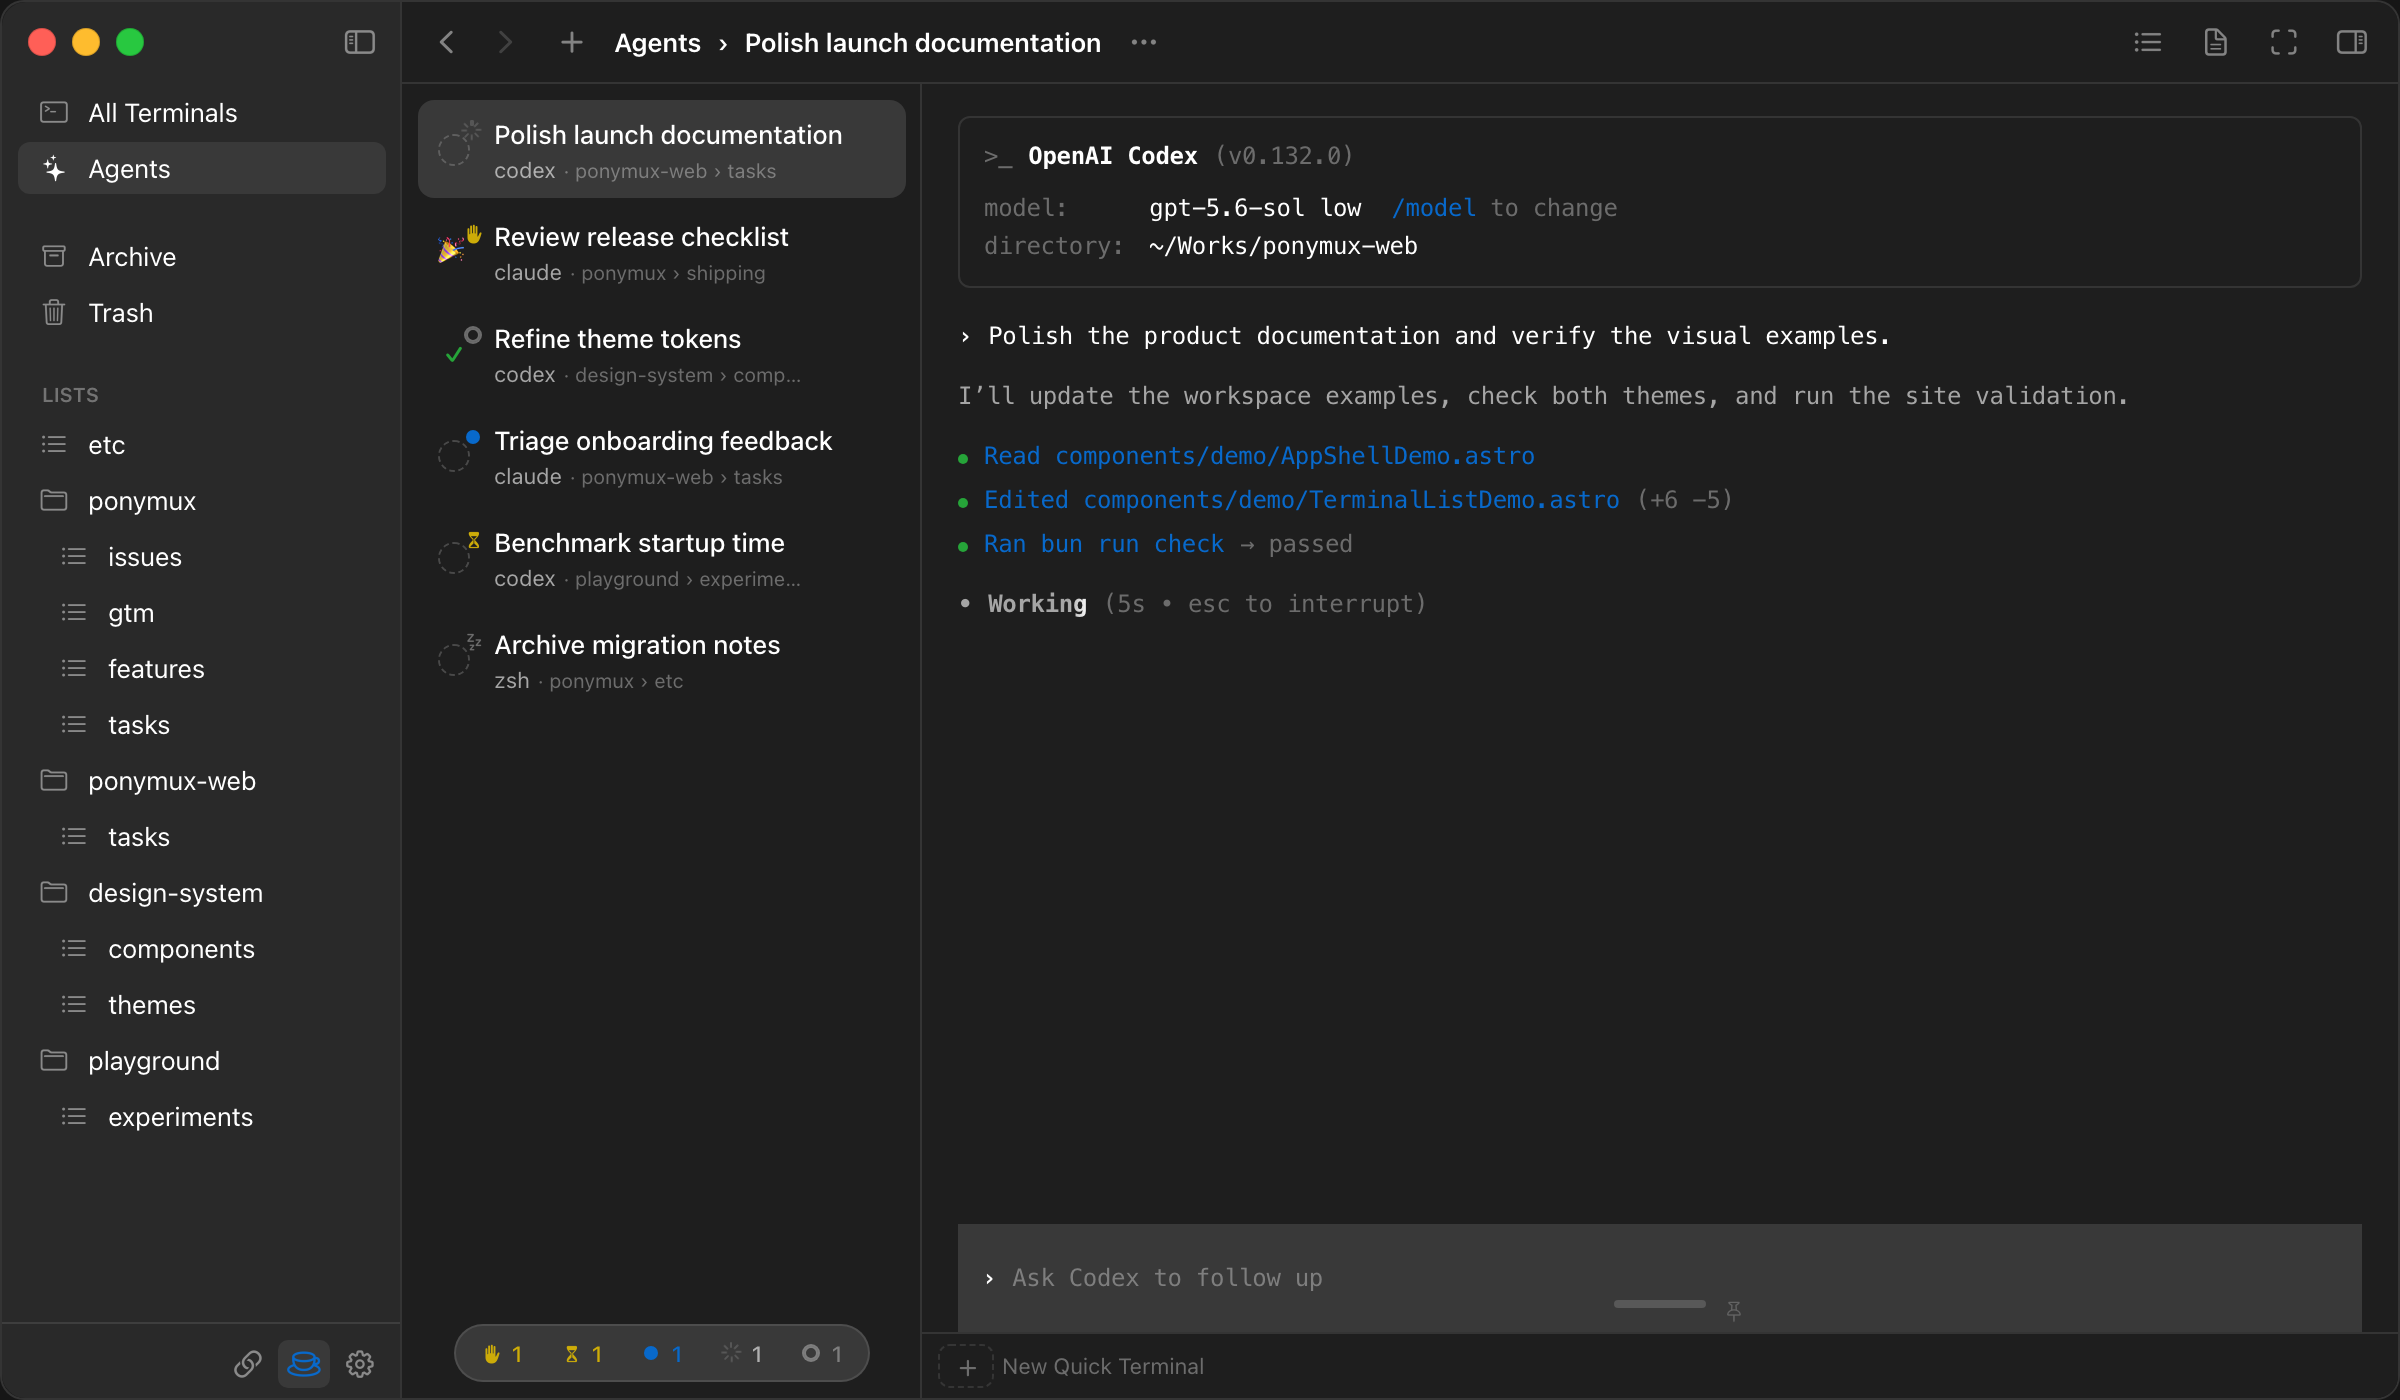
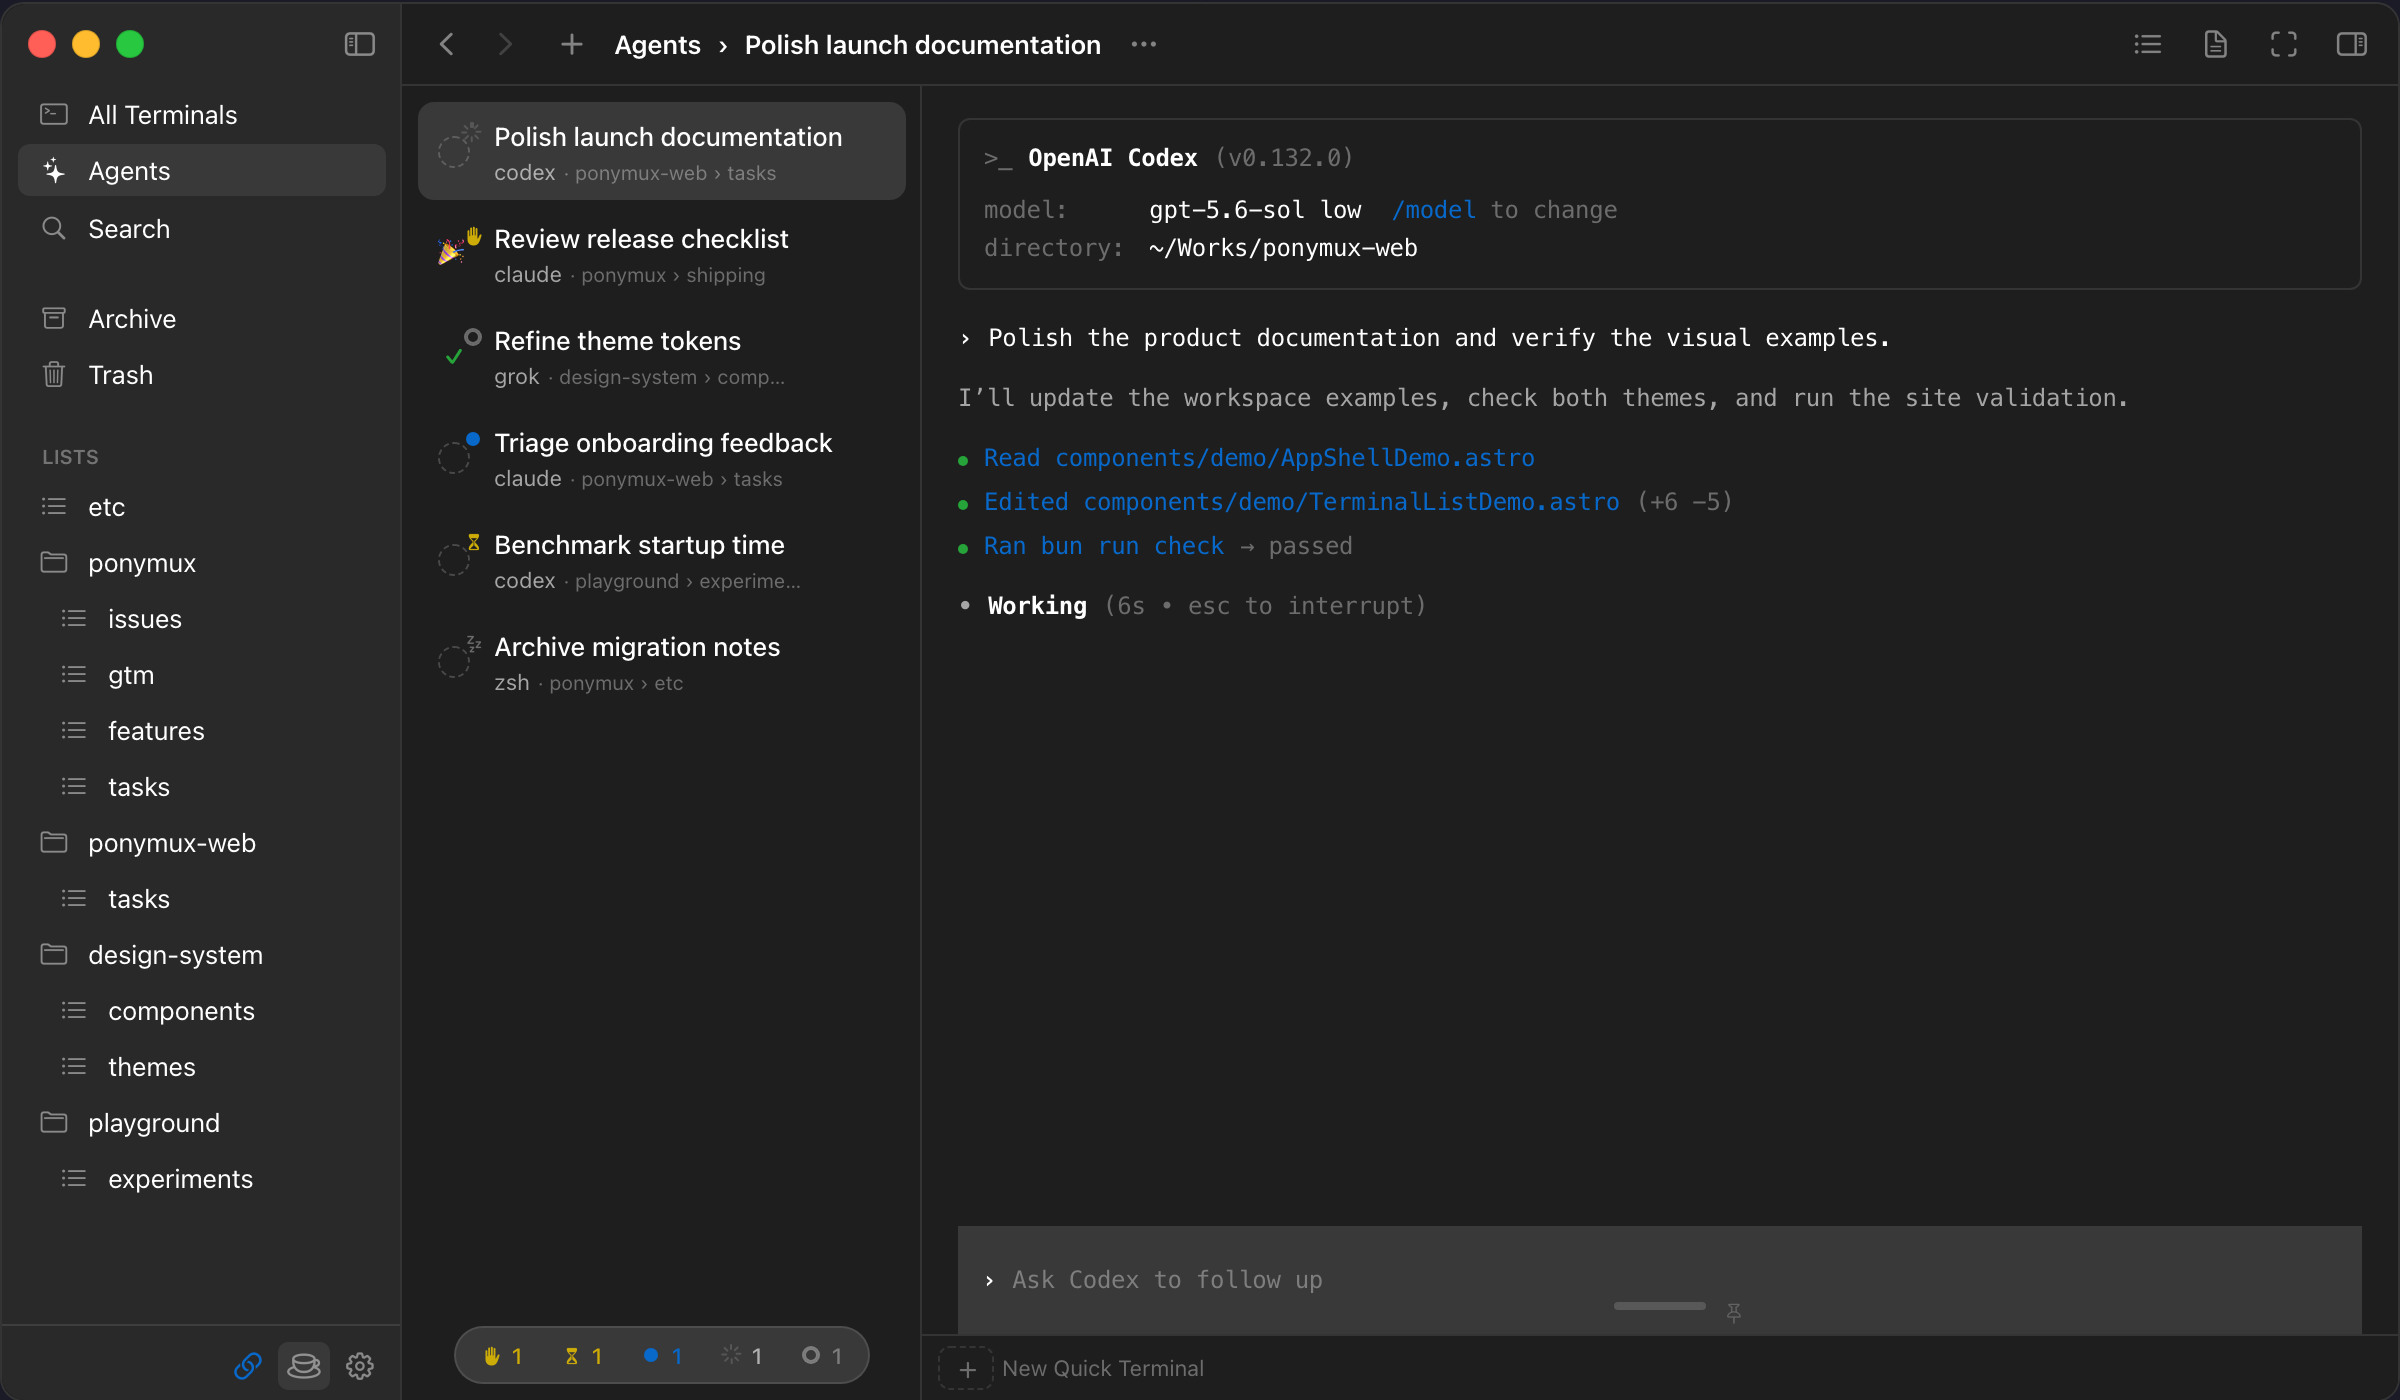
docs: refresh workspace screenshot with Grok session

diff --git a/docs/assets/README.md b/docs/assets/README.md
@@ -1,6 +1,6 @@
 # README visual
 
-`workspace.png` is a capture of the interactive workspace demo at https://ponymux.com/, taken on September 12, 2026. It uses the website’s sample tasks and is labeled as a demo in the main README.
+`workspace.png` is a capture of the interactive workspace demo at https://ponymux.com/, taken on October 2, 2026. It uses the website’s sample tasks and is labeled as a demo in the main README.
 
 Capture settings: dark color scheme, 1440 × 1100 browser viewport, 2× device scale. Wait for fonts and images, isolate the `app-shell-demo` element from the homepage scroll animation, and capture that element at its native 1200 × 700 CSS size with animations disabled.
 
